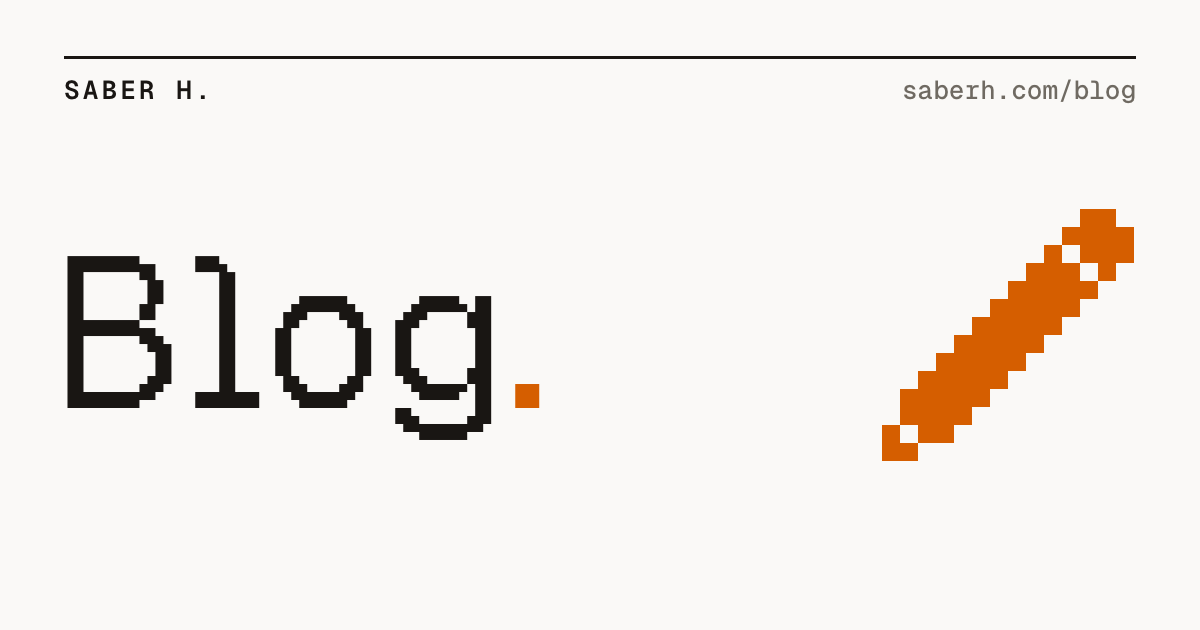
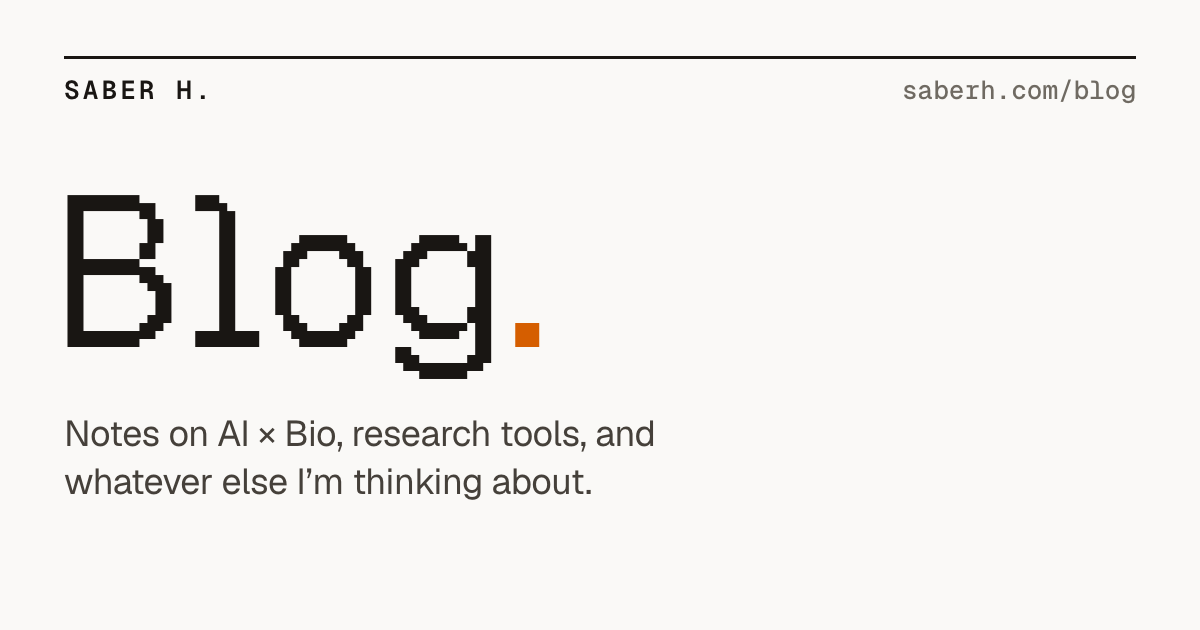
Brand: share cards as picked: home's larger card, Blog's line [brand]

diff --git a/layouts/_partials/saberhq/share-card.html b/layouts/_partials/saberhq/share-card.html
@@ -1,4 +1,4 @@
-{{- /* The page's share card: the card whose path starts the page's address, the longest one. Returns url, width, height, alt, own. */ -}}
+{{- /* The page's share card: the card whose path starts the page's address, the longest one. Returns url, width, height, alt, own, large (url, alt). */ -}}
 {{- $r := dict -}}
 {{- $at := .RelPermalink -}}
 {{- $key := "" -}}
@@ -11,9 +11,13 @@
 {{- end -}}
 {{- with $key -}}
   {{- $c := index site.Data.share.cards . -}}
-  {{- with resources.Get (printf "share/%s.png" .) -}}
+  {{- with resources.Get (printf "share/%s.png" $key) -}}
     {{- $v := substr (replaceRE "[^A-Za-z0-9]" "" (. | fingerprint "md5").Data.Integrity) 3 8 -}}
     {{- $r = dict "url" (printf "%s?v=%s" .Permalink $v) "width" .Width "height" .Height "alt" ($c.alt | default $.Title) "own" (eq $path $at) -}}
+    {{- with resources.Get (printf "share/%s-large.png" $key) -}}
+      {{- $v := substr (replaceRE "[^A-Za-z0-9]" "" (. | fingerprint "md5").Data.Integrity) 3 8 -}}
+      {{- $r = merge $r (dict "large" (dict "url" (printf "%s?v=%s" .Permalink $v) "alt" ($c.large.alt | default $r.alt))) -}}
+    {{- end -}}
   {{- end -}}
 {{- end -}}
 {{- return $r -}}

diff --git a/static/resume/index.html b/static/resume/index.html
@@ -13,7 +13,8 @@
 <meta property="og:image:height" content="630">
 <meta property="og:image:alt" content="A card that reads “Saber H.” and “AI × Bio”.">
 <meta name="twitter:card" content="summary_large_image">
-<meta name="twitter:image:alt" content="A card that reads “Saber H.” and “AI × Bio”.">
+<meta name="twitter:image" content="https://saberh.com/share/home-large.png">
+<meta name="twitter:image:alt" content="A card that reads “Saber H.” above four topics: AI × Bio, Perturb-seq, representation learning and long-read RNA-seq.">
 <meta name="twitter:site" content="@saberhq">
 <script type="application/ld+json">{"@context": "https://schema.org", "@type": "ProfilePage", "@id": "https://saberh.com/resume/#webpage", "url": "https://saberh.com/resume/", "name": "Résumé · Saber Hafezqorani", "description": "Saber Hafezqorani's résumé: experience, selected publications, technical skills and education.", "inLanguage": "en", "isPartOf": {"@id": "https://saberh.com/#website"}, "mainEntity": {"@id": "https://saberh.com/#person"}}</script>
 <link rel="icon" href="/favicon.svg" type="image/svg+xml">

diff --git a/layouts/_partials/seo/share.html b/layouts/_partials/seo/share.html
@@ -1,5 +1,5 @@
 {{- /* Link previews: Open Graph and X cards. The picture: the page's own share card, else its own picture, else the nearest card. */ -}}
-{{- $title := partial "docs/html-head-title" . -}}
+{{- $title := .Params.shareTitle | default (partial "docs/html-head-title" .) -}}
 {{- $desc := default .Summary .Description | plainify | htmlUnescape -}}
 {{- $post := and .IsPage (eq .Type "blog") -}}
 {{- $profile := eq .Layout "about" -}}
@@ -43,6 +43,9 @@
 <meta name="twitter:site" content="{{ . }}">
 <meta name="twitter:creator" content="{{ . }}">
 {{- end }}
-{{- with $img.alt }}
+{{- with $img.large }}
+<meta name="twitter:image" content="{{ .url }}">
+{{- end }}
+{{- with ($img.large | default $img).alt }}
 <meta name="twitter:image:alt" content="{{ . }}">
 {{- end }}

diff --git a/content/vibes/index.md b/content/vibes/index.md
@@ -12,4 +12,6 @@ kicker: "My life story, told by songs"
 lede: "Soundtracks of my life ;)"
 body: "Music is life to me, as I’m sure it is for many of you. Some songs grow to be your identity, a part of your body, a piece expressing a lost soul in you. Some become the soundtracks of your life. Here are mine: 10 tracks currently composing my days. I vibed with many others; you can see the list and listen [here](/vibes/albumarts/)."
 signoff: "— Saber"
+# The line a chat or a post prints under the share card (the tab's title stays as it is)
+shareTitle: "Soundtracks of my life!"
 ---
